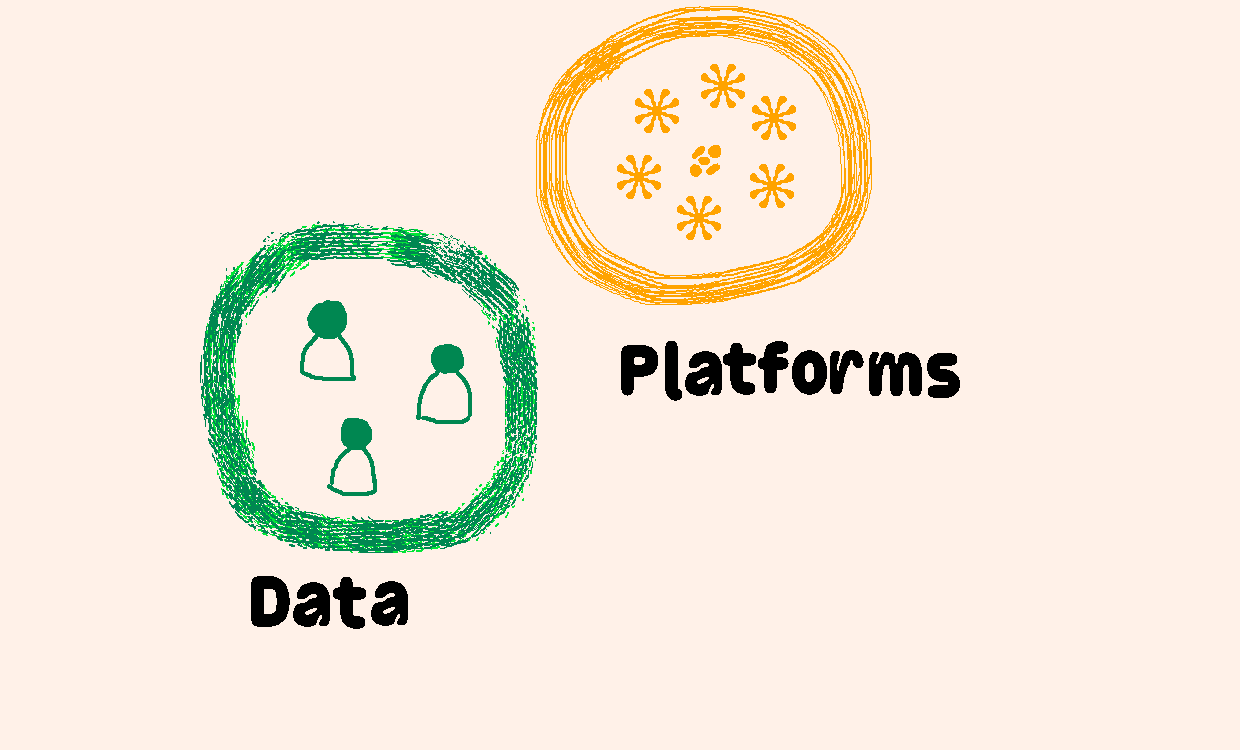
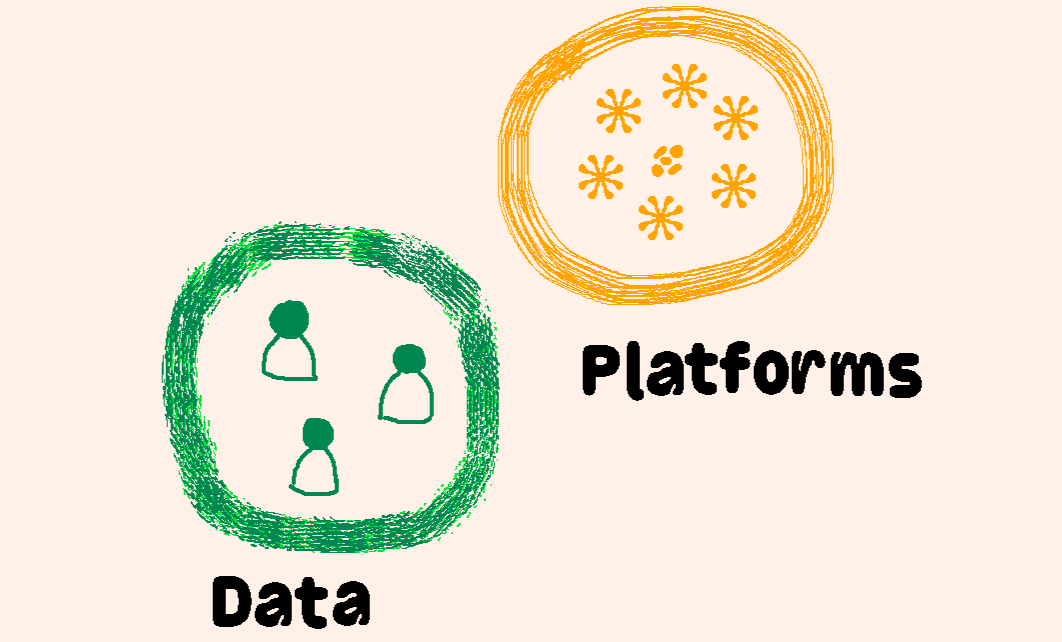
cleanup image styles

Changed region(s): [[0.435, 0.0, 0.8701, 0.6231], [0.1554, 0.2804, 0.4972, 0.8723], [0.1864, 0.9034, 0.3729, 0.9969]]

diff --git a/src/lib/components/landing/Atmosphere.svelte b/src/lib/components/landing/Atmosphere.svelte
@@ -28,7 +28,7 @@
 
 <Image
 	src={data_platform}
-	class="cripsy mx-auto my-4"
+	class="cripsy mx-auto"
 	alt="two groups, one is group of folks in a circle 'data' and other being 'platform' "
 />
 
@@ -41,13 +41,13 @@
 
 <Image
 	src={apps}
-	class="cripsy mx-auto my-4"
+	class="cripsy mx-auto"
 	alt="closed circles with famous social media apps, representing their nature of locking userdata at one place on their platform."
 />
 
 <Image
 	src={group}
-	class="cripsy mx-auto my-4"
+	class="cripsy mx-auto"
 	alt="open nature of at-protocol allowing many apps to coexist and share their data from a single source."
 />
 

diff --git a/src/lib/components/landing/Structure.svelte b/src/lib/components/landing/Structure.svelte
@@ -20,7 +20,7 @@
 
 	<Image
 		src={thoughts}
-		class="crispy mt-4"
+		class="crispy"
 		alt="thought is born. which in turn end up as conversation which being chats. we can gather this into an coherent block as 'threads'. this in turn helps us to compile down into condensed shapes such as article."
 	/>
 
@@ -31,8 +31,9 @@
 </div>
 
 <Image
-	class="crispy mt-12"
+	class="crispy"
 	src={threads}
+	caption="we're <i>proud</i> of this 🥹"
 	alt="thread interface of roomy. a toggle at top allows quickly switch between chat and threads intuitively."
 />
 

diff --git a/src/lib/components/landing/Intro.svelte b/src/lib/components/landing/Intro.svelte
@@ -15,7 +15,7 @@
 
 <Image
 	src={space_channel}
-	class="crispy mx-auto my-4"
+	class="crispy mx-auto"
 	alt="two sections with small section on left being 'space' and remaining space taken by 'channel' section."
 />
 
@@ -30,7 +30,7 @@
 
 <Image
 	src={ss}
-	class="crispy my-14"
+	class="crispy"
 	caption="Building for and <i>with</i> communities."
 	alt="chat interface of roomy"
 />

diff --git a/src/lib/styles/layout.css b/src/lib/styles/layout.css
@@ -185,10 +185,7 @@ h2 {
 p {
 	font-size: var(--step-1);
 	text-wrap: pretty;
-}
-
-p + p {
-	margin-top: 1rem;
+	margin-bottom: 1rem;
 }
 
 /*img[src$='.gif'] {
@@ -206,7 +203,8 @@ img {
 }
 
 figure {
-	margin-bottom: 0.75rem;
+    margin-top: 2rem;
+	margin-bottom: 2rem;
 
 	figcaption {
 		font-family: var(--font-sans);
